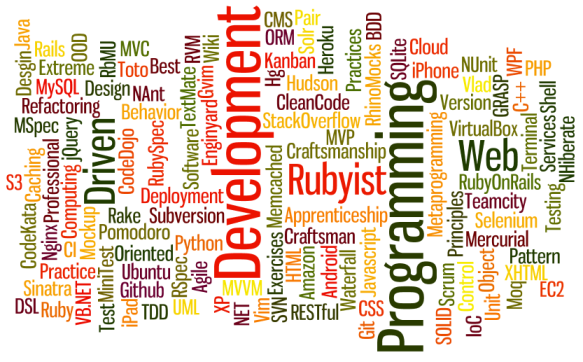
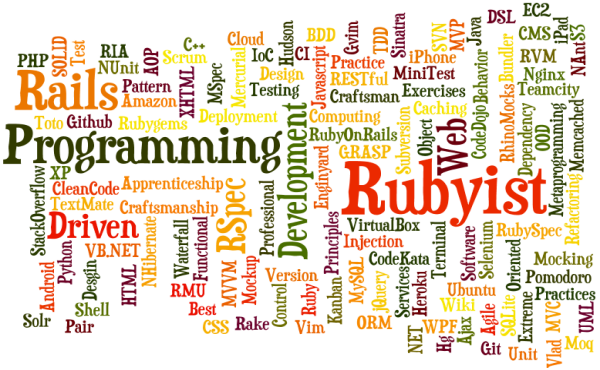
update tag cloud and css

diff --git a/public/stylesheets/ui.css b/public/stylesheets/ui.css
@@ -17,8 +17,8 @@
   text-align: center;
   float: right;
   position: relative;
-  right: 30px;
-  top: -287px;  
+  right: 50px;
+  top: -295px;  
 }
 
 .signup-button:hover{
